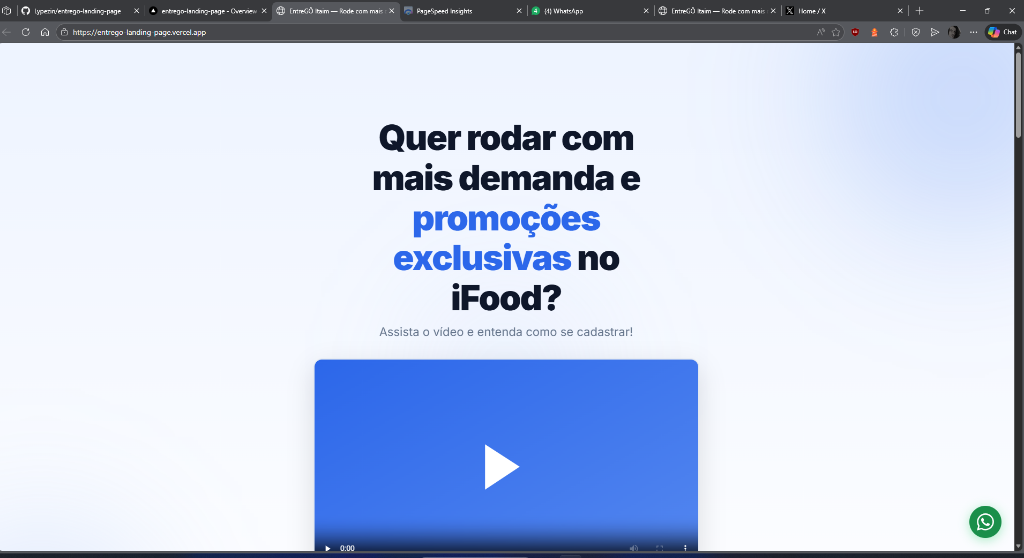
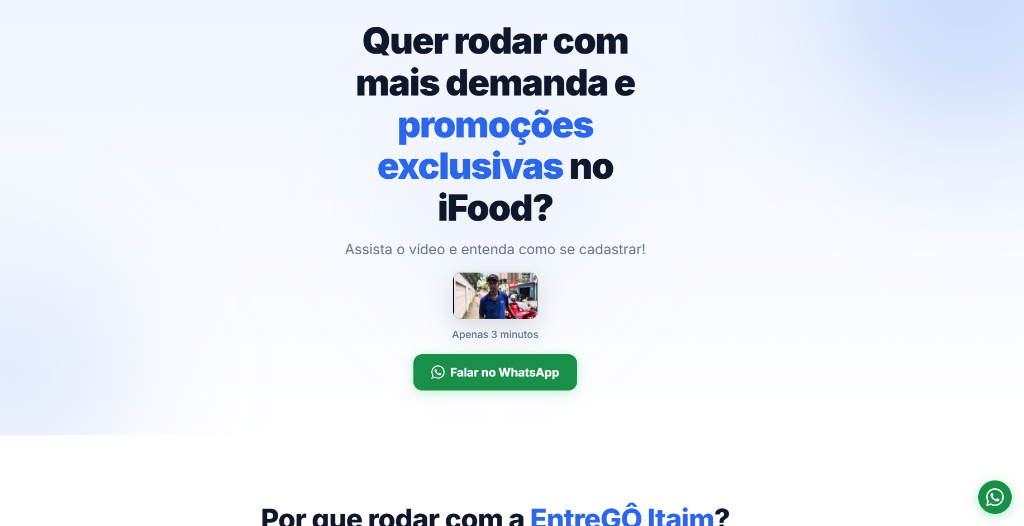
K

Changed region(s): [[0.0, 0.0, 1.0, 1.0]]

diff --git a/index.html b/index.html
@@ -545,33 +545,7 @@
                         </div>
                     </div>
 
-                    <div class="testimonial-card animate-on-scroll">
-                        <div class="testimonial-print mock-print">
-                            <div class="mock-screen">
-                                <div class="mock-header-bar">
-                                    <span class="mock-time">22:15</span>
-                                    <span class="mock-status">●●● WiFi</span>
-                                </div>
-                                <div class="mock-app-header">Ganhos Hoje</div>
-                                <div class="mock-total">R$ 312<span class="mock-cents">,45</span></div>
-                                <div class="mock-subtitle">Hoje • 28 entregas</div>
-                                <div class="mock-chart">
-                                    <div class="mock-bar" style="height:20%"><span>8h</span></div>
-                                    <div class="mock-bar" style="height:45%"><span>10h</span></div>
-                                    <div class="mock-bar" style="height:75%"><span>12h</span></div>
-                                    <div class="mock-bar" style="height:50%"><span>14h</span></div>
-                                    <div class="mock-bar" style="height:30%"><span>16h</span></div>
-                                    <div class="mock-bar" style="height:85%"><span>18h</span></div>
-                                    <div class="mock-bar" style="height:100%"><span>20h</span></div>
-                                    <div class="mock-bar" style="height:60%"><span>22h</span></div>
-                                </div>
-                                <div class="mock-stat-row">
-                                    <div class="mock-stat"><strong>R$ 11,16</strong><span>Média/entrega</span></div>
-                                    <div class="mock-stat"><strong>9h 40min</strong><span>Online</span></div>
-                                </div>
-                            </div>
-                        </div>
-                    </div>
+
 
                 </div>
 
